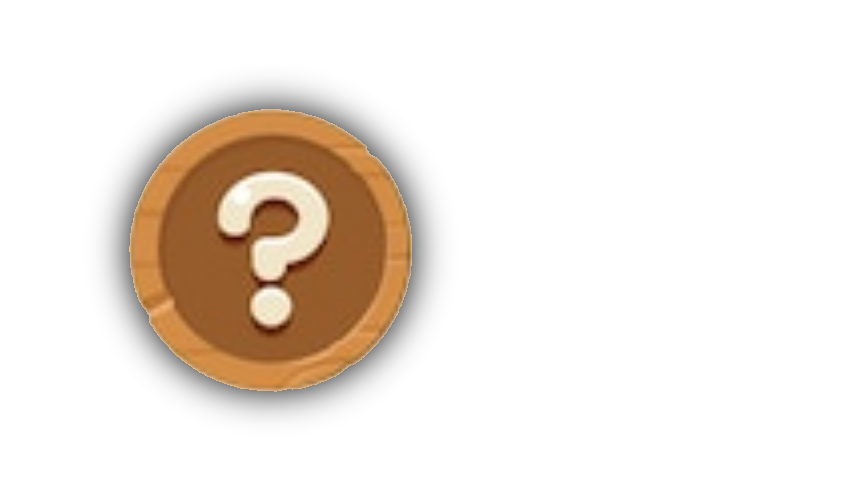
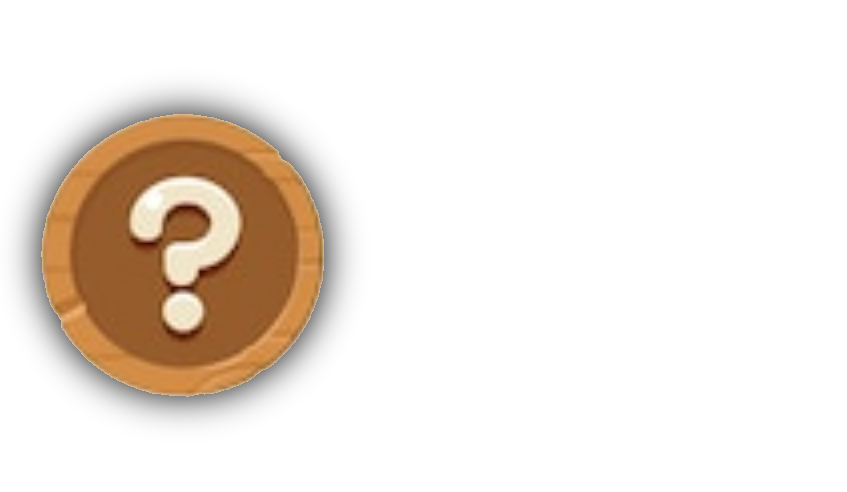
Bouton ultra gang heureusement killian peut plus le changer

Changed region(s): [[0.0, 0.1524, 0.5218, 0.8537]]

diff --git a/src/Vue/FenetreJeu.java b/src/Vue/FenetreJeu.java
@@ -266,7 +266,7 @@ public class FenetreJeu extends Container {
                 //boutons général
                 largeur_bouton = Math.min(Math.max(Math.min(largeur / 11, hauteur / 11), 80), 190);
                 hauteur_bouton = largeur_bouton;
-                posX_tuto = (int) (largeur / 1.2);
+                posX_tuto = (int) (largeur / 1.1);
                 posY_tuto =  (int)(hauteur / 1.3);
 
                 largeur_bouton_dans_options = (int) (largeur_menu_options * 0.6);
